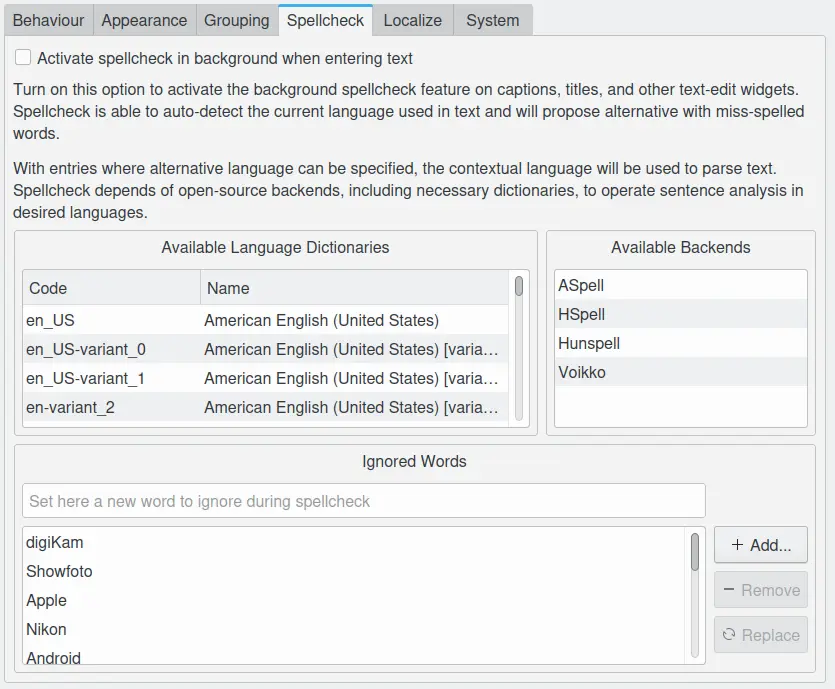
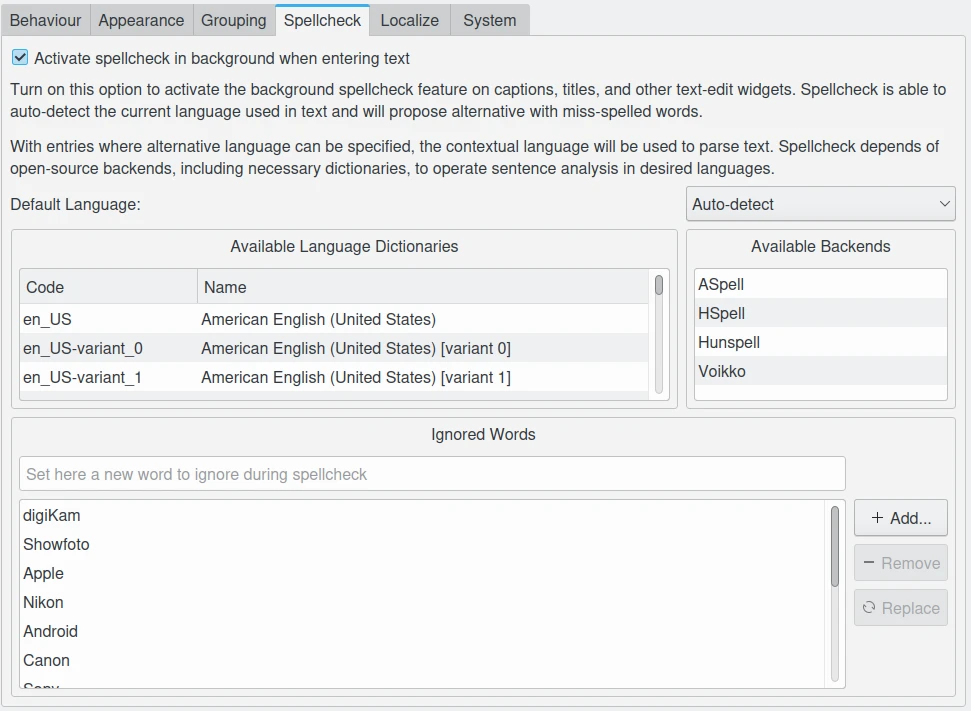
Online documentation: update spellchecking settings page with the default language configuration CCBUGS: 468726

Changed region(s): [[0.0, 0.0, 0.9964, 1.0]]

diff --git a/setup_application/miscs_settings.rst b/setup_application/miscs_settings.rst
@@ -203,13 +203,15 @@ This section allows to control the spellchecking operations done in background i
 
     The digiKam Spellcheck Configuration Page
 
-Spellcheck can be used on captions, titles, and other text-edit widgets to auto-detect the current language used in text and will propose alternative with miss-spelled words. With entries where alternative language can be specified, the contextual language will be used to parse text. Spellcheck depends of open-source **Backends**, including **Language Dictionaries**, to operate sentence analysis. Availability of both are listed in this view for information. If you want to add new language or dictionaries, you need to install relevant packages on your system.
+Spellcheck can be used on captions, titles, and other text-edit widgets to auto-detect the current language used in text and will propose alternative with miss-spelled words. With entries where alternative-language can be specified, the contextual language will be used to parse text. Spellcheck depends of open-source **Backends**, including **Language Dictionaries**, to operate sentence analysis. Availability of both are listed in this view for information. If you want to add new language or dictionaries, you need to install relevant packages on your system.
 
 .. figure:: images/setup_captions_spellcheck.webp
     :alt:
     :align: center
 
     The Titles Text Editor from Captions Tab with Spellcheck Feature
+
+The **Default Language** allow to set the langue to Spellcheck with the *x-defult* entry from the alternative-language string. If you select **Auto-detect** value, the string contents will be parsed to determine the language automatically and select the right dictionary for spellchecking. Of course, in all cases the relevant dictionaries must be installed on your computer to see the spellchecking works properly.
 
 You can edit a list of words that Spellcheck must ignore during operations. digiKam already provide a list usual keywords to not verify.
 
